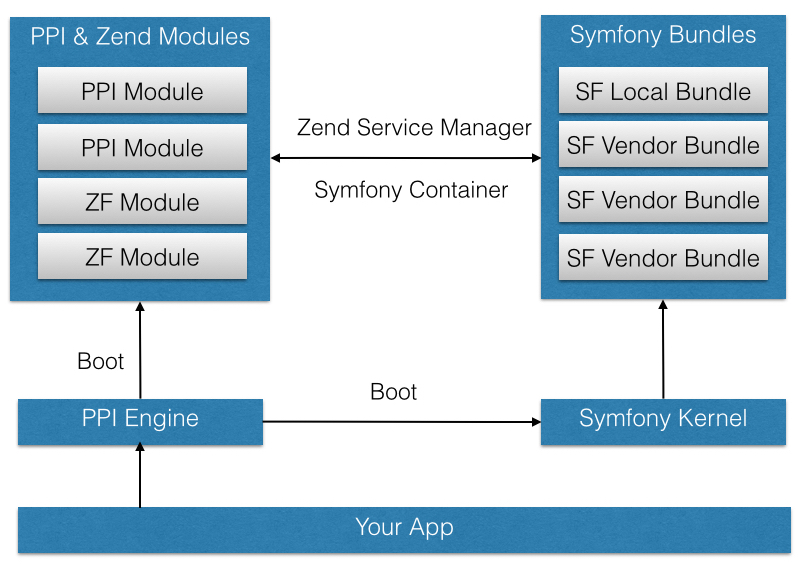
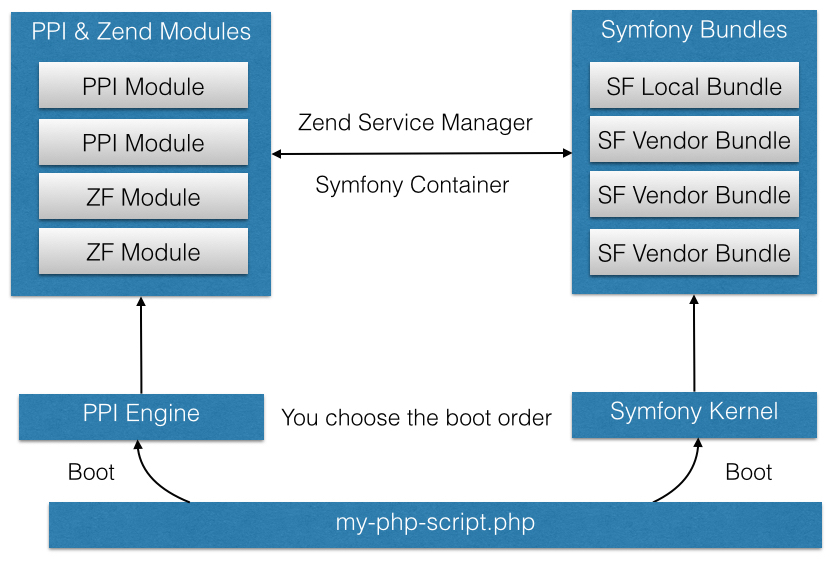
phpday talk

Changed region(s): [[0.0, 0.0, 0.995, 0.9964]]

diff --git a/20160513-phpday/index.html b/20160513-phpday/index.html
@@ -921,22 +921,33 @@ FastRoute Router doesn't appear to be loaded.
         </section>
 
         <section>
-          <h2>Can I haz shiny new features plz!?!1!?!11</h2>
+          <h3>We have an announcement to make!</h3>
+          <p>Can I haz shiny new features plz?! :-D</p>
         </section>
-
-
 
         <section>
-            <h4>PPI app as a container</4h>
-            <p><img src="images/ppi-zf-sf-boot-model.jpg"></p>
+          <h3>Full Symfony bundles support</h3>
         </section>
 
+        <section>
+            <h4>Boot model</h4>
+            <p><img src="images/ppi-zf-sf-boot-model.jpg" width="90%"></p>
+        </section>
+
+        <section>
+            <h4>Dispatch model</h4>
+            <p><img src="images/ppi-zf-sf-dispatch-model.jpg" width="90%"></p>
+        </section>
+
+
+
+
+
+<section>
+  <h2>Loading your symfony kernel</h2>
+      <pre><code>
 // Create...
-$app = new PPI\Framework\App(array(
-    'environment'   => $env,
-    'debug'         => $debug,
-    'rootDir'       => realpath(__DIR__.'/../app'),
-));
+$app = new PPI\Framework\App();
 
 // ...configure...
 $app->loadConfig($app->getEnvironment().'/app.php');
@@ -954,6 +965,9 @@ $app->getServiceManager()->set('SymfonyContainer', $sfContainer);
 // Dispatch PPI System
 $app->setSymfonyKernel($symfonyKernel);
 $app->run();
+
+      </code></pre>
+</section>
 
 
 <section>
